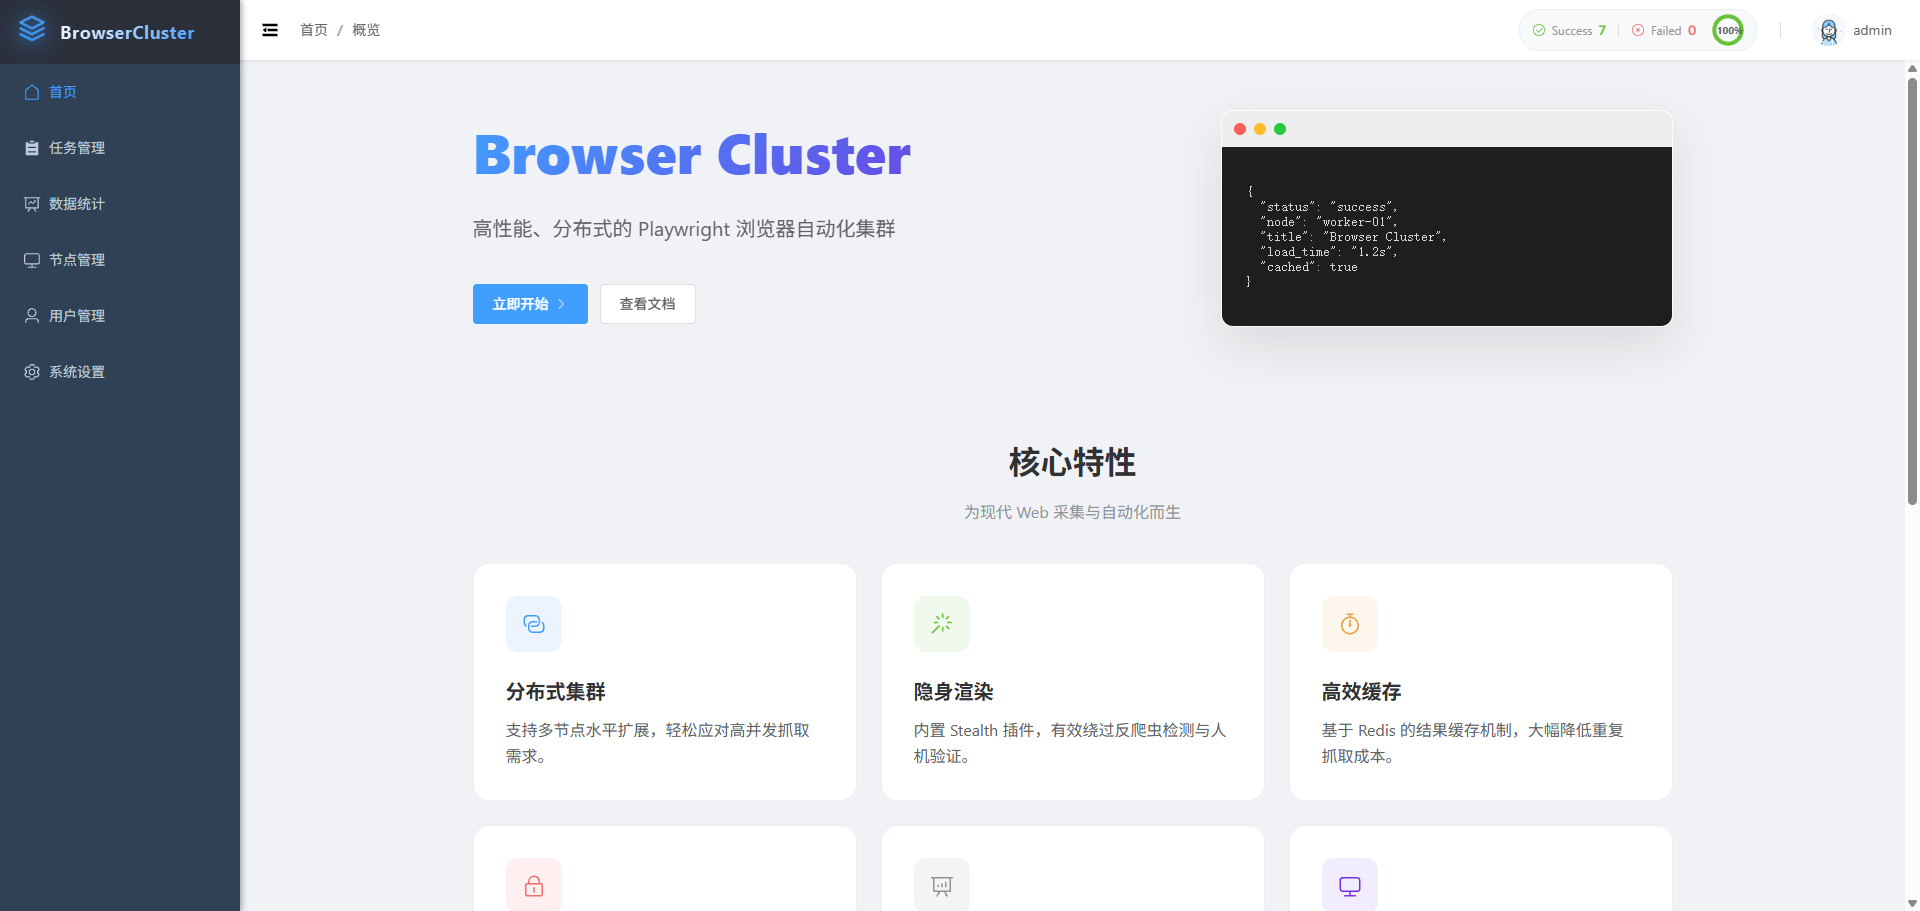
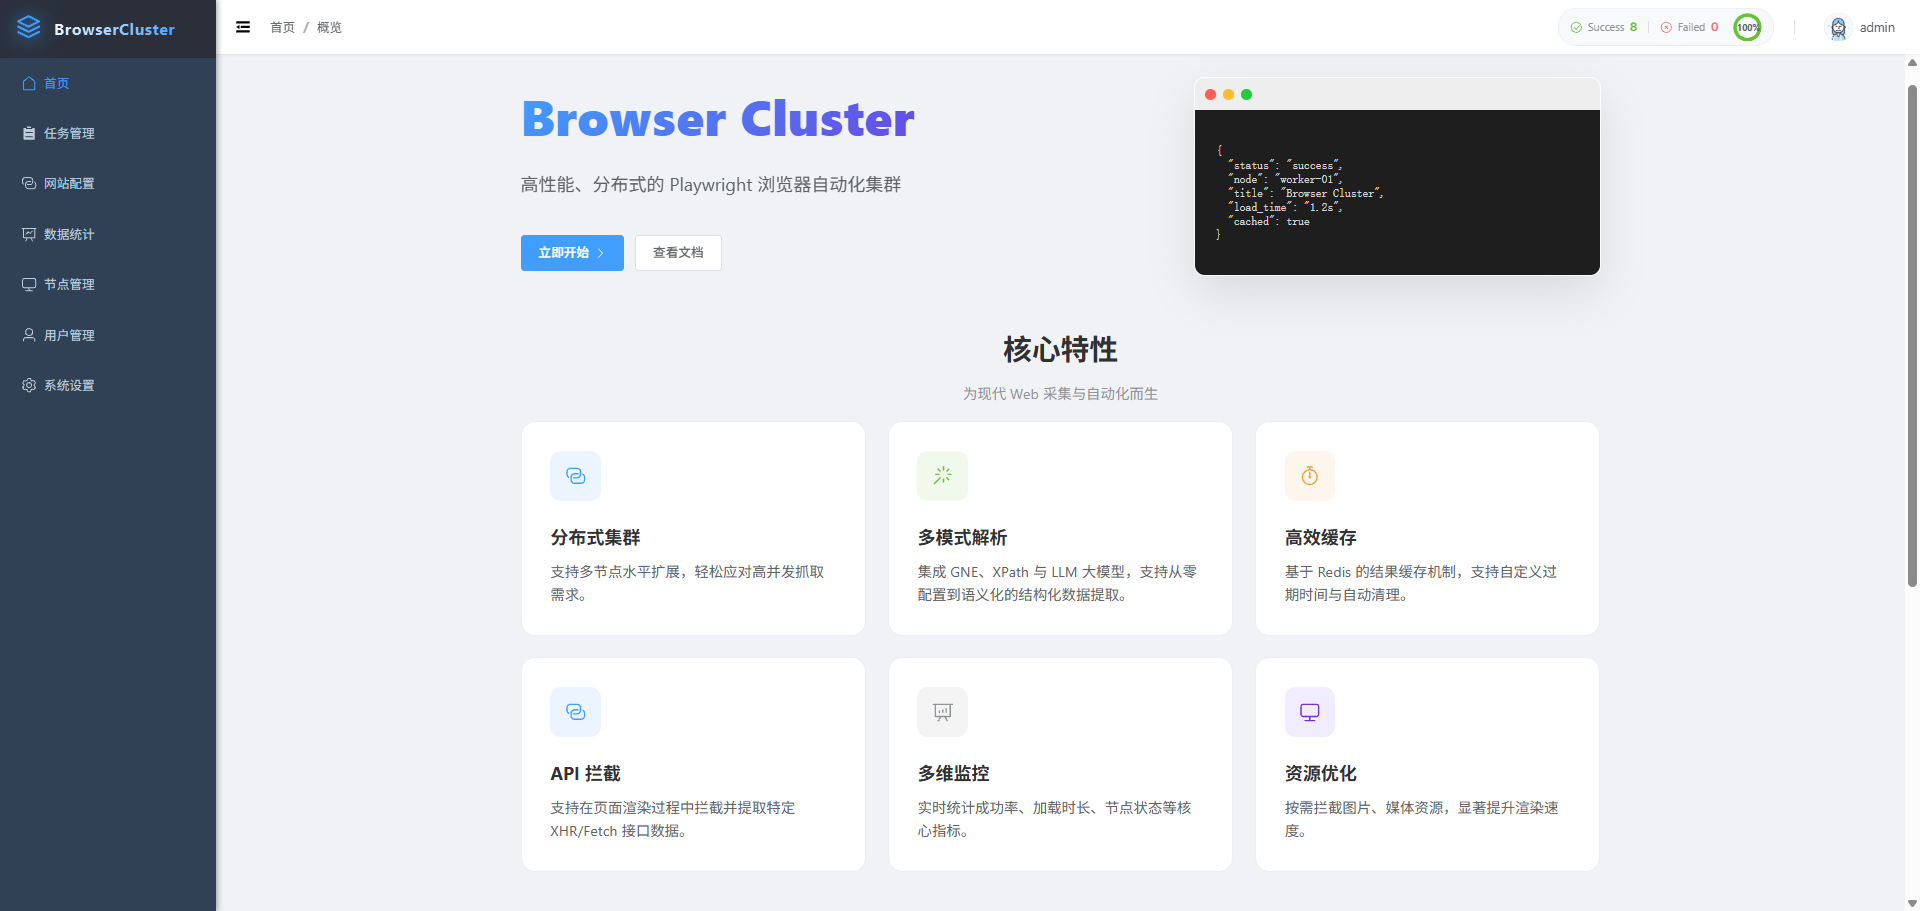
docs: 更新README文档并优化管理后台界面描述
- 重构README中的功能说明和任务处理流程，使其更详细和结构化
- 优化管理后台统计页面的趋势显示逻辑，支持中性状态并调整样式
- 更新首页架构图组件描述和特性列表，使其更准确简洁
- 调整部分界面布局和样式，提升视觉一致性

diff --git a/admin/src/views/Home.vue b/admin/src/views/Home.vue
@@ -63,8 +63,8 @@
         <div class="arch-step">
           <div class="step-card">
             <div class="step-icon"><Connection /></div>
-            <h4>Unified Gateway</h4>
-            <p>基于 FastAPI 的高性能异步接口，提供鉴权、流控与任务调度入口。</p>
+            <h4>API Gateway</h4>
+            <p>鉴权、流控与请求预检，集成缓存优先策略。</p>
           </div>
         </div>
         <div class="arch-connector">
@@ -74,7 +74,7 @@
           <div class="step-card">
             <div class="step-icon"><Operation /></div>
             <h4>Task Queue</h4>
-            <p>RabbitMQ 实现任务削峰填谷，确保高并发下的系统稳定性与可靠投递。</p>
+            <p>RabbitMQ 异步分发，支持优先级调度与消息持久化。</p>
           </div>
         </div>
         <div class="arch-connector">
@@ -83,8 +83,8 @@
         <div class="arch-step">
           <div class="step-card">
             <div class="step-icon"><Cpu /></div>
-            <h4>Browser Cluster</h4>
-            <p>分布式 Playwright 节点，支持隐身模式、指纹混淆与动态扩缩容。</p>
+            <h4>Smart Worker</h4>
+            <p>Playwright 渲染引擎，内置 GNE/XPath/LLM 多模态解析。</p>
           </div>
         </div>
         <div class="arch-connector">
@@ -93,8 +93,8 @@
         <div class="arch-step">
           <div class="step-card">
             <div class="step-icon"><Files /></div>
-            <h4>Data Persistence</h4>
-            <p>MongoDB 存储完整任务链路，Redis 提供毫秒级结果缓存与状态同步。</p>
+            <h4>Persistence</h4>
+            <p>MongoDB 结果存储与 Redis 热点数据缓存。</p>
           </div>
         </div>
       </div>
@@ -125,25 +125,25 @@ const features = [
     bg: '#ecf5ff'
   },
   {
-    title: '隐身渲染',
-    desc: '内置 Stealth 插件，有效绕过反爬虫检测与人机验证。',
+    title: '多模式解析',
+    desc: '集成 GNE、XPath 与 LLM 大模型，支持从零配置到语义化的结构化数据提取。',
     icon: MagicStick,
     color: '#67C23A',
     bg: '#f0f9eb'
   },
   {
     title: '高效缓存',
-    desc: '基于 Redis 的结果缓存机制，大幅降低重复抓取成本。',
+    desc: '基于 Redis 的结果缓存机制，支持自定义过期时间与自动清理。',
     icon: Timer,
     color: '#E6A23C',
     bg: '#fdf6ec'
   },
   {
     title: 'API 拦截',
-    desc: '支持在页面渲染过程中拦截并提取特定接口的数据。',
-    icon: Lock,
-    color: '#F56C6C',
-    bg: '#fef0f0'
+    desc: '支持在页面渲染过程中拦截并提取特定 XHR/Fetch 接口数据。',
+    icon: Connection,
+    color: '#409EFF',
+    bg: '#ecf5ff'
   },
   {
     title: '多维监控',
@@ -310,7 +310,7 @@ const openDocs = () => {
 /* Architecture Section */
 .architecture-section {
   margin-top: 100px;
-  padding: 80px 0;
+  padding: 20px 0;
   background: linear-gradient(180deg, #f8fafc 0%, #fff 100%);
   position: relative;
   overflow: hidden;
@@ -320,7 +320,7 @@ const openDocs = () => {
   display: flex;
   align-items: center;
   justify-content: center;
-  margin-top: 60px;
+  margin: 60px;
   position: relative;
   max-width: 1000px;
   margin-left: auto;

diff --git a/admin/src/views/Stats.vue b/admin/src/views/Stats.vue
@@ -15,12 +15,21 @@
               </div>
             </div>
           </div>
-          <div class="card-footer" v-if="item.trend">
-            <span class="trend" :class="item.trend > 0 ? 'up' : 'down'">
-              {{ item.trend > 0 ? '+' : '' }}{{ item.trend }}% 
-              <el-icon><CaretTop v-if="item.trend > 0" /><CaretBottom v-else /></el-icon>
-            </span>
-            <span class="tip">较昨日</span>
+          <div class="card-footer">
+            <template v-if="item.trend !== undefined">
+              <span class="trend" :class="item.trend > 0 ? (item.type === 'danger' ? 'down' : 'up') : (item.trend < 0 ? (item.type === 'danger' ? 'up' : 'down') : 'neutral')">
+                {{ item.trend > 0 ? '+' : '' }}{{ item.trend }}% 
+                <el-icon v-if="item.trend !== 0">
+                  <CaretTop v-if="item.trend > 0" />
+                  <CaretBottom v-else />
+                </el-icon>
+              </span>
+              <span class="tip">较昨日</span>
+            </template>
+            <template v-else>
+              <span class="trend neutral">0%</span>
+              <span class="tip">较昨日</span>
+            </template>
           </div>
         </el-card>
       </el-col>
@@ -38,11 +47,11 @@
               </el-radio-group>
             </div>
           </template>
-          <div ref="chartRef" style="height: 380px;"></div>
+          <div ref="chartRef" style="height: 480px;"></div>
         </el-card>
       </el-col>
       <el-col :span="8">
-        <el-card shadow="hover" header="实时队列状态" class="queue-card-main">
+        <el-card shadow="hover" header="实时队列状态" class="queue-card-main full-height-card">
           <div class="queue-summary">
             <div class="total-queue">
               <div class="val">{{ totalQueue }}</div>
@@ -265,6 +274,7 @@ onUnmounted(() => {
 
 .trend.up { color: #67c23a; }
 .trend.down { color: #f56c6c; }
+.trend.neutral { color: #909399; }
 
 .tip { color: #c0c4cc; }
 
@@ -276,6 +286,20 @@ onUnmounted(() => {
   border-radius: 12px;
   border: none;
   box-shadow: 0 4px 12px rgba(0, 0, 0, 0.05);
+}
+
+.full-height-card {
+  height: 100%;
+  display: flex;
+  flex-direction: column;
+}
+
+.full-height-card :deep(.el-card__body) {
+  flex: 1;
+  display: flex;
+  flex-direction: column;
+  justify-content: space-around;
+  padding: 30px 20px !important;
 }
 
 .card-header {
@@ -307,7 +331,7 @@ onUnmounted(() => {
 .queue-container {
   display: flex;
   flex-direction: column;
-  gap: 16px;
+  gap: 24px;
 }
 
 .queue-item .q-info {

diff --git a/README.md b/README.md
@@ -11,8 +11,10 @@
 - **高效缓存**：基于 Redis 的结果缓存机制，支持自定义 TTL。
 - **资源优化**：智能拦截图片、媒体资源，显著提升渲染速度。
 - **API 拦截**：支持在渲染过程中提取特定 XHR/Fetch 接口数据。
-- **结构化提取**：集成 GNE (General News Extractor) 、大模型 (LLM) 、自定义xpath解析，支持通过自然语言描述自动化提取指定字段。
-- **解析规则管理**：提供可视化的解析规则配置，支持 LLM 提示词、正则、XPath 及 CSS 选择器，适配不同网站结构。
+- **多模式解析提取**：集成多种结构化数据提取技术，适配不同复杂度的网页：
+    - **智能通用解析 (GNE)**：基于正文抽取算法，无需配置规则即可自动提取新闻类网站的标题、正文及发布时间。
+    - **精准规则解析 (XPath/CSS)**：支持可视化配置 XPath 和 CSS 选择器，针对电商、列表页等结构化页面实现像素级精准提取。
+    - **大模型智能解析 (LLM)**：结合 OpenAI/DeepSeek 等大语言模型，通过自然语言描述所需字段，零代码实现复杂网页的语义化提取。
 - **可视化管理**：提供基于 Vue 3 + Element Plus 的现代化管理后台，支持深色/浅色模式切换。
 
 ## 🛠 技术栈
@@ -27,22 +29,34 @@
 
 ### 🔄 任务处理流程
 
-1. **提交任务**
-   - 客户端向 `API Gateway` 发送抓取请求。
-   - API 首先检查 `Redis` 缓存，若命中则直接返回结果。
+1. **请求接入与校验 (Entry)**
+   - `API Gateway` 接收 HTTP 请求，执行 **JWT 鉴权**与参数合法性校验。
+   - 检查 **Redis 缓存**：若命中缓存且未过期，则直接返回结果，跳过后续步骤。
 
-2. **任务调度**
-   - 若未命中缓存，API 在 `MongoDB` 创建任务记录（状态为 pending）。
-   - 同时将任务消息发布到 `RabbitMQ` 队列。
-   - API 立即返回 `task_id` 给客户端（异步模式）。
+2. **任务持久化与分发 (Dispatch)**
+   - API 生成全局唯一 `task_id`，并在 **MongoDB** 中初始化任务状态（pending）。
+   - 将任务载荷发布至 **RabbitMQ** 优先级队列，实现流量削峰。
+   - 同步接口进入等待状态，异步接口立即返回 `task_id`。
 
-3. **任务执行**
-   - 空闲的 `Worker` 节点从 RabbitMQ 消费任务。
-   - Worker 启动浏览器上下文，执行页面加载、交互和数据提取。
+3. **智能调度与执行 (Execution)**
+   - 闲置 `Worker` 节点监听队列，根据**任务优先级**竞争获取任务。
+   - Worker 调用 **Browser Manager** 分配独立浏览器上下文：
+     - **环境模拟**：注入 Stealth 脚本、配置代理、模拟指纹与视口。
+     - **资源拦截**：根据配置拦截图片/媒体，加速渲染。
+     - **实时拦截**：注册 API 拦截监听器，捕获 XHR/Fetch 数据。
 
-4. **结果回写**
-   - **成功**：Worker 将结果写入 `MongoDB`，更新缓存到 `Redis`，并标记任务为 success。
-   - **失败**：记录错误信息到 `MongoDB`，标记任务为 failed。
+4. **多模式解析 (Parsing)**
+   - 页面加载完成后（根据 `wait_for` 策略），Worker 获取渲染后的 DOM。
+   - 根据 `parser` 配置执行解析引擎：
+     - **GNE**：自动提取正文与元数据。
+     - **XPath/CSS**：按规则执行精准提取。
+     - **LLM**：调用大模型进行语义化字段映射。
+
+5. **结果归档与反馈 (Feedback)**
+   - **成功处理**：将 HTML、结构化数据、截图及性能指标写入 MongoDB。
+   - **缓存更新**：将结果同步至 Redis（带 TTL），加速后续相同请求。
+   - **异常处理**：若执行失败，记录错误堆栈并触发**重试机制**（可选）。
+   - **统计更新**：实时上报任务状态，更新 **Prometheus/Stats** 监控数据。
 
 ### 核心组件
 
